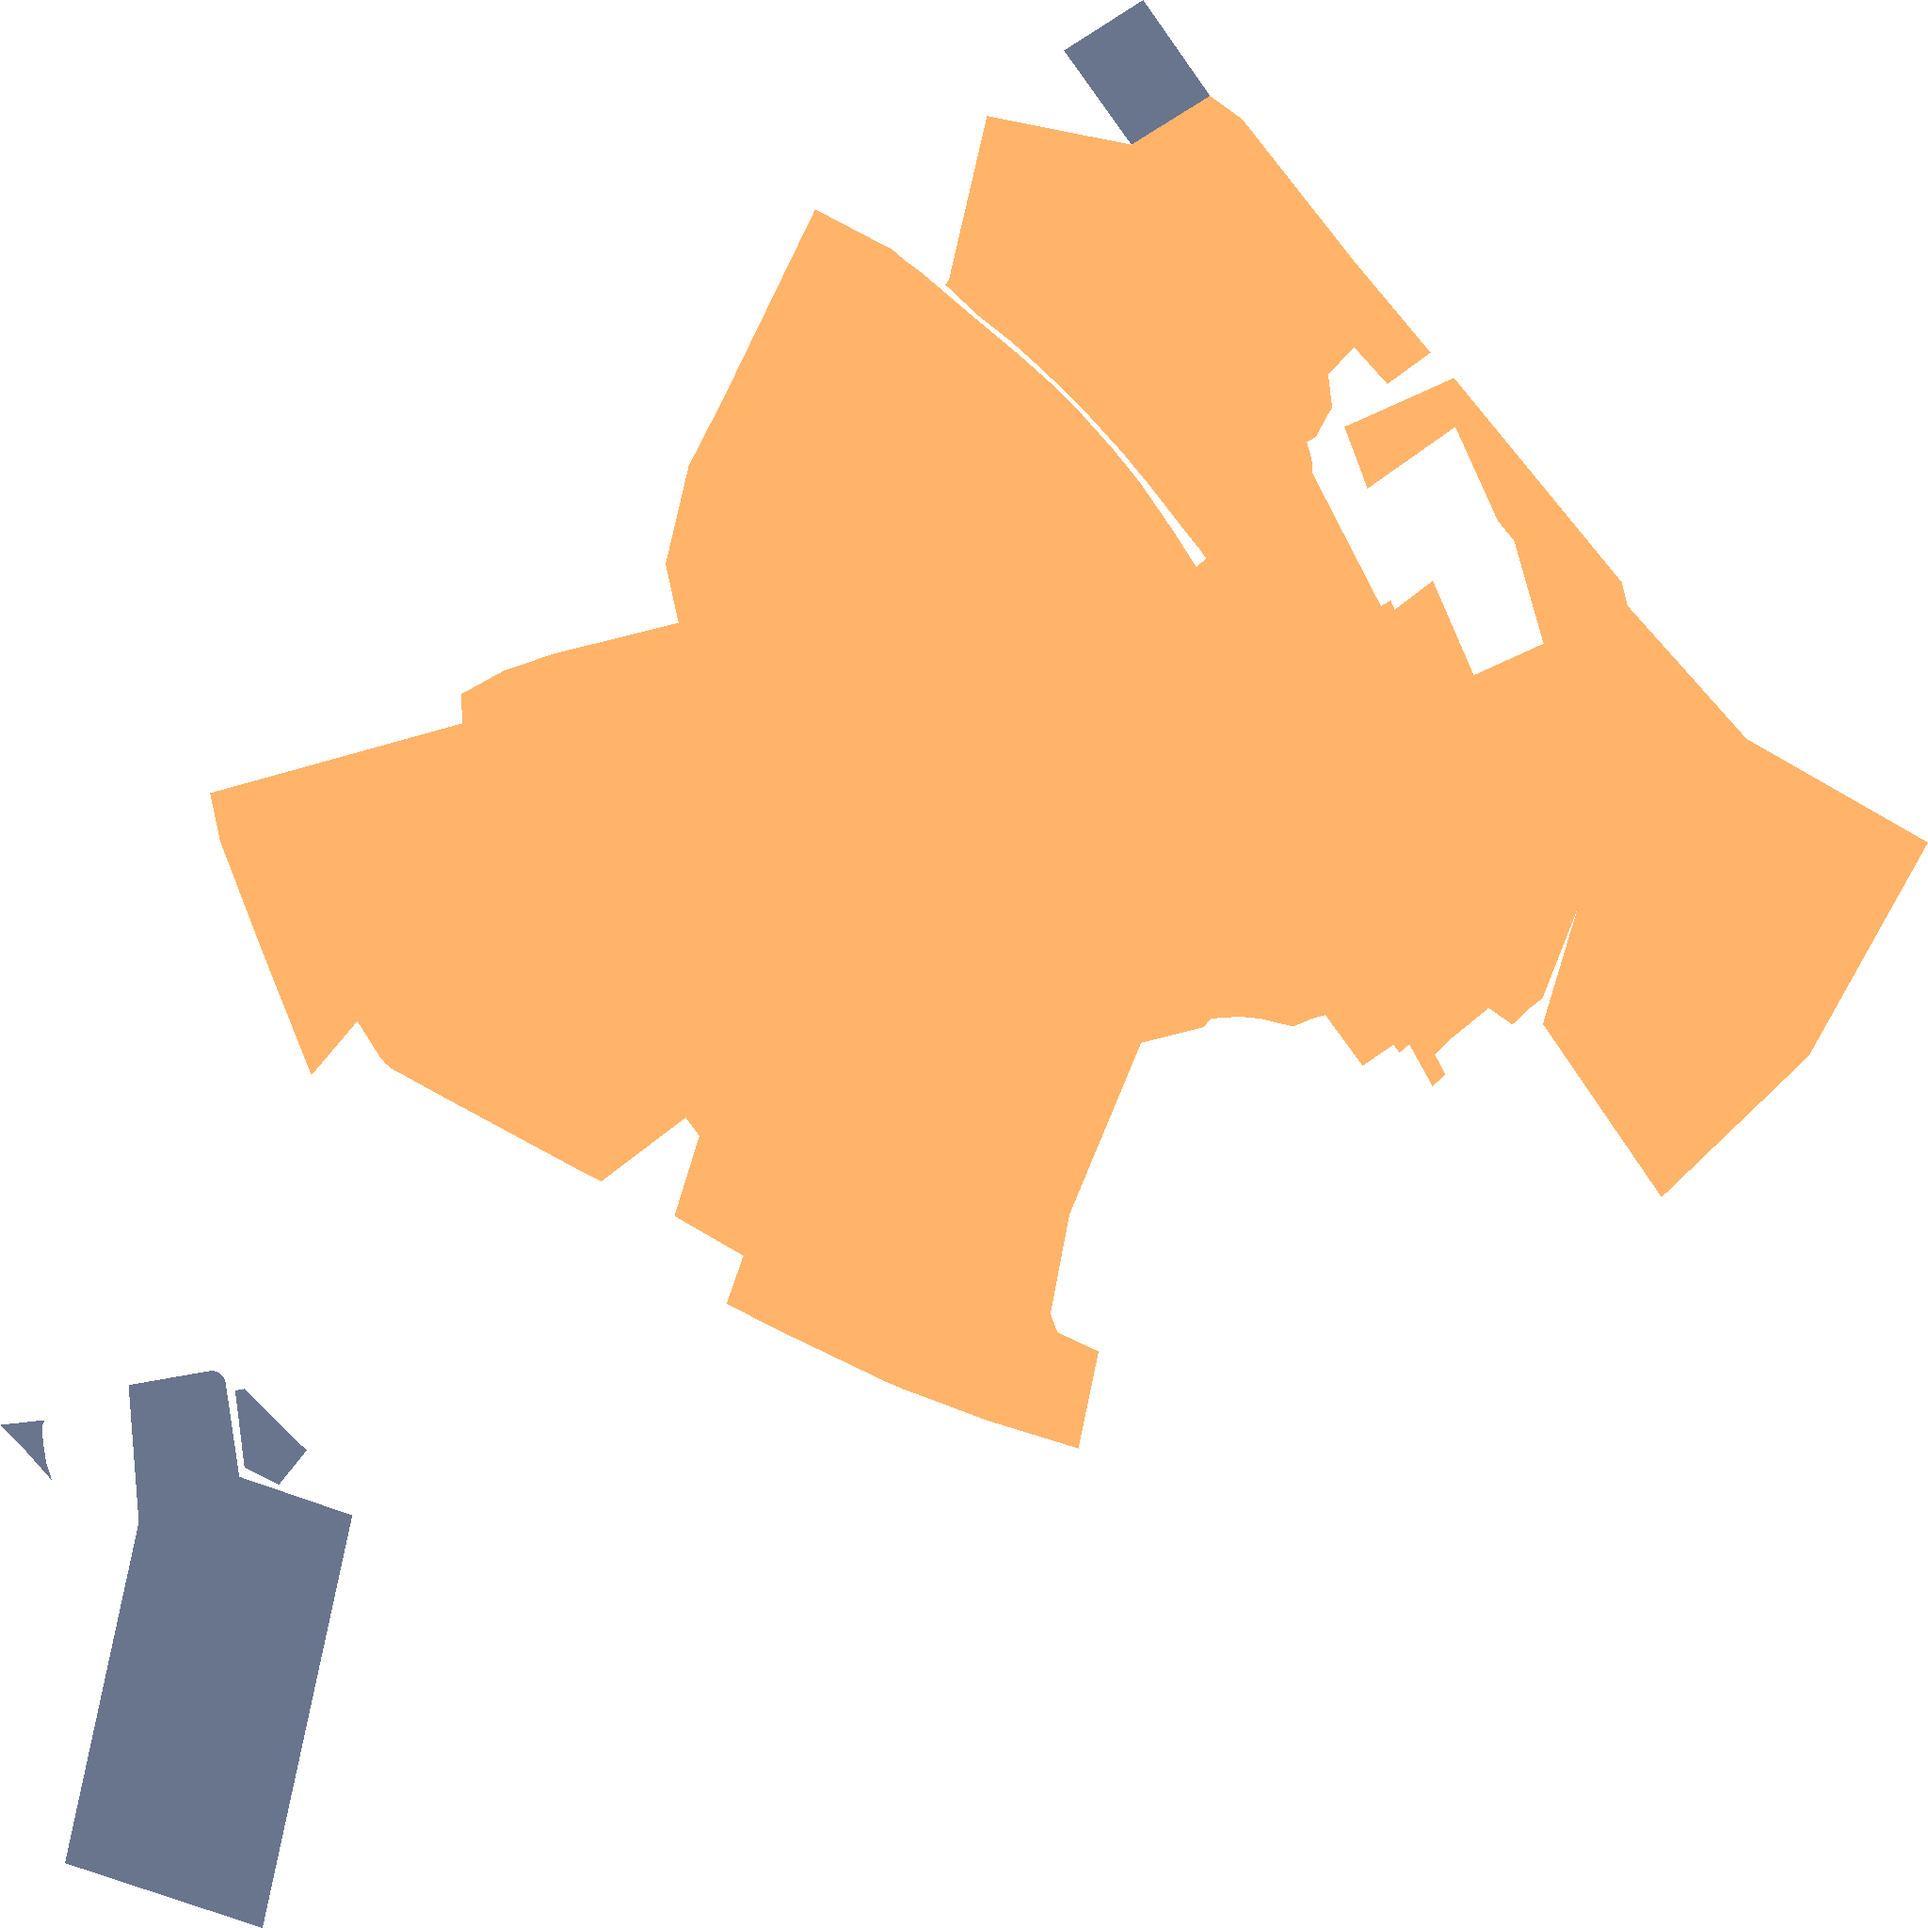
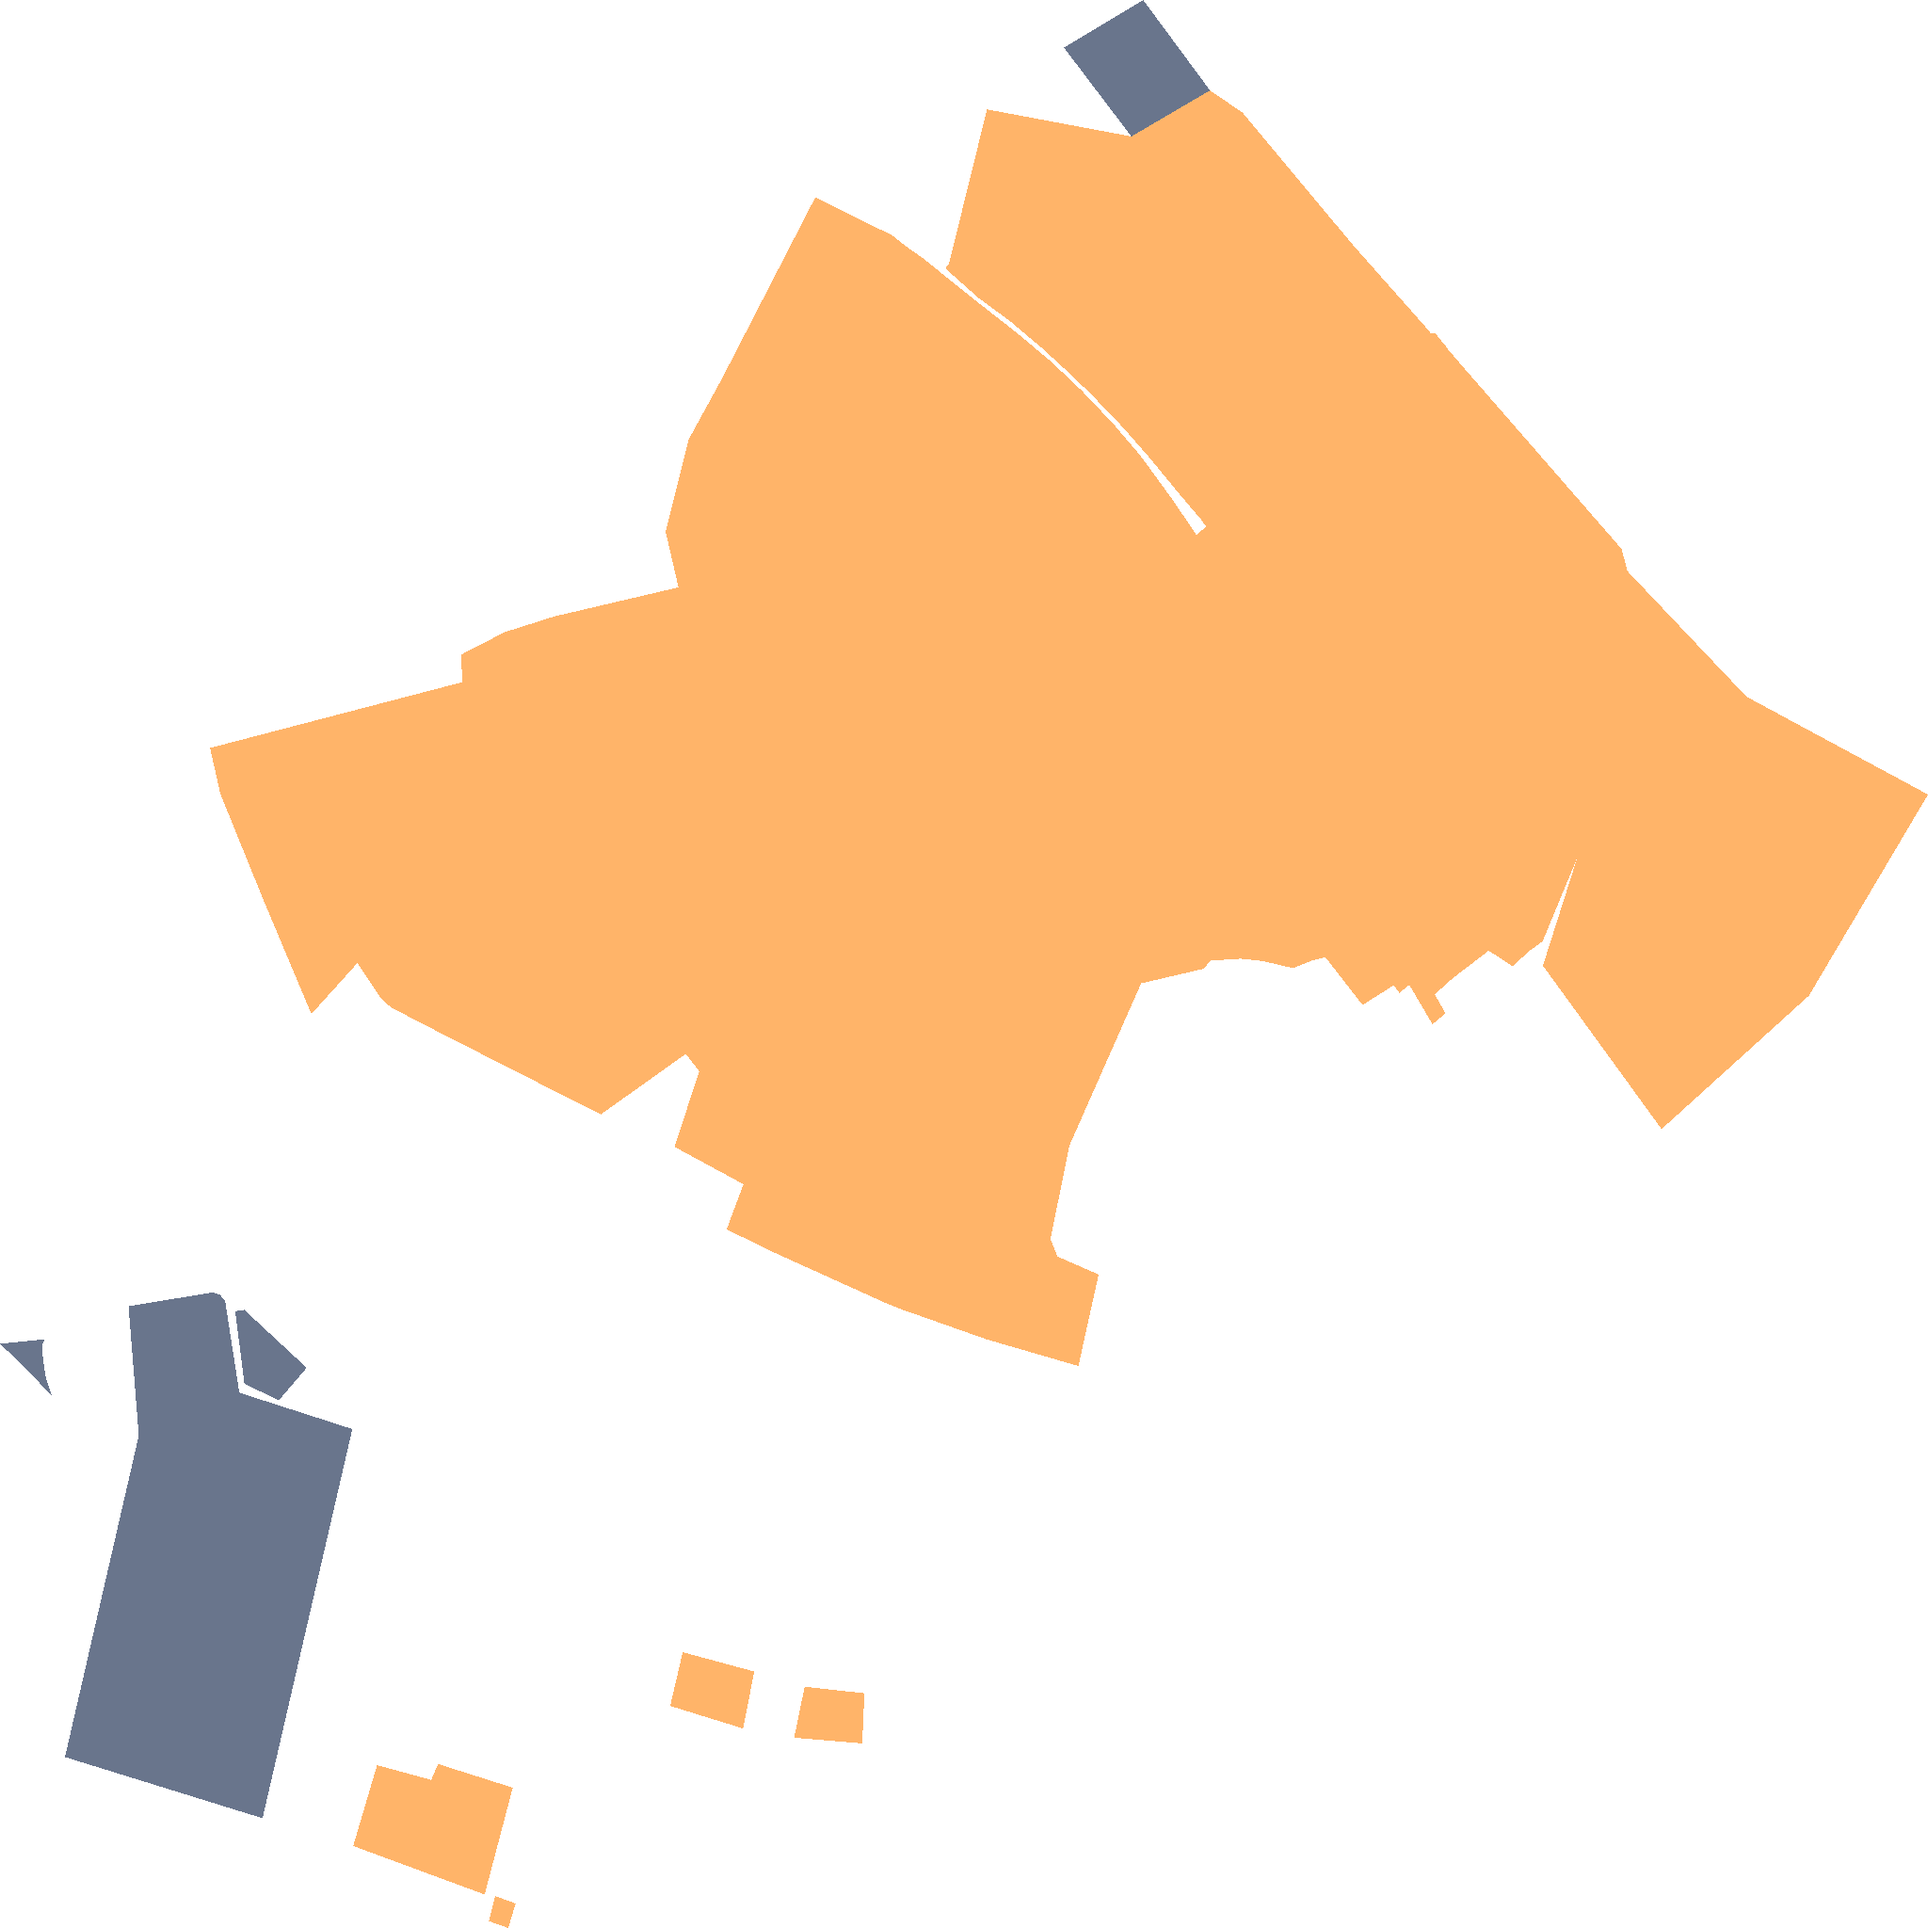
Karte sp_755

diff --git a/sp_755.html b/sp_755.html
@@ -115,7 +115,7 @@
         <div><span style="display:inline-block;width:20px; height:10px; background:#FFC17D; margin-right:5px;"></span>Ausbauphase 3: Gefördertes Ausbaugebiet </div>
     </div>
     <script>
-    const bounds = [[50.0561883, 8.825093314], [50.079436656, 8.869570072]];
+    const bounds = [[50.054784613, 8.825093314], [50.079436656, 8.869570072]];
     const map = L.map('map', {zoomControl: false});
       map.fitBounds(bounds, {padding: [100, 100]});
        const maptiler = L.tileLayer('https://api.maptiler.com/maps/basic/{z}/{x}/{y}.png?key=hP74ooTG3ciBab5RShCg',
